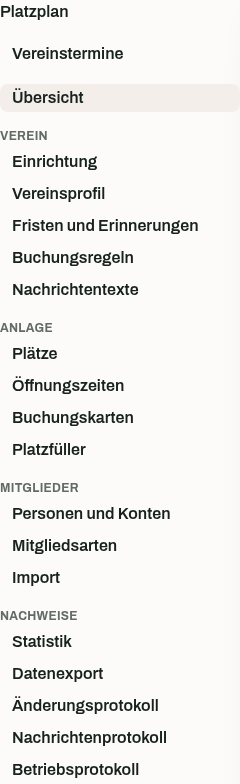
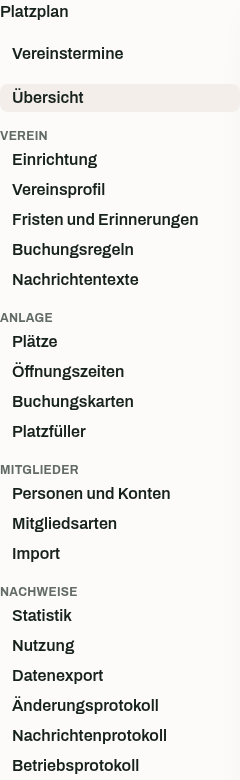
fix(web): keep the configuration pages on one desktop screen with the usage link and redraw the navigation

diff --git a/frontend/src/components/AdminNavigation.tsx b/frontend/src/components/AdminNavigation.tsx
@@ -141,7 +141,7 @@ export function AdminNavigation({ administrator = true }: { administrator?: bool
       </Link>
       <NavigationLink destination={appointments} pathname={pathname} chosen={() => { if (!laidOpen) setUnfolded(false); }} />
       {administrator && <NavigationLink destination={overview} pathname={pathname} chosen={() => { if (!laidOpen) setUnfolded(false); }} />}
-      {administrator && groups.map((group) => <div key={group.testId} data-testid={group.testId} role="group" aria-labelledby={`${group.testId}-heading`} className="grid gap-2 lg:gap-1">
+      {administrator && groups.map((group) => <div key={group.testId} data-testid={group.testId} role="group" aria-labelledby={`${group.testId}-heading`} className="grid gap-2 lg:gap-0.5">
         <p id={`${group.testId}-heading`} className="text-muted text-xs font-bold tracking-wide uppercase">{t(group.heading)}</p>
         {group.destinations.map((destination) => <NavigationLink key={destination.testId} destination={destination}
           pathname={pathname} chosen={() => { if (!laidOpen) setUnfolded(false); }} />)}
